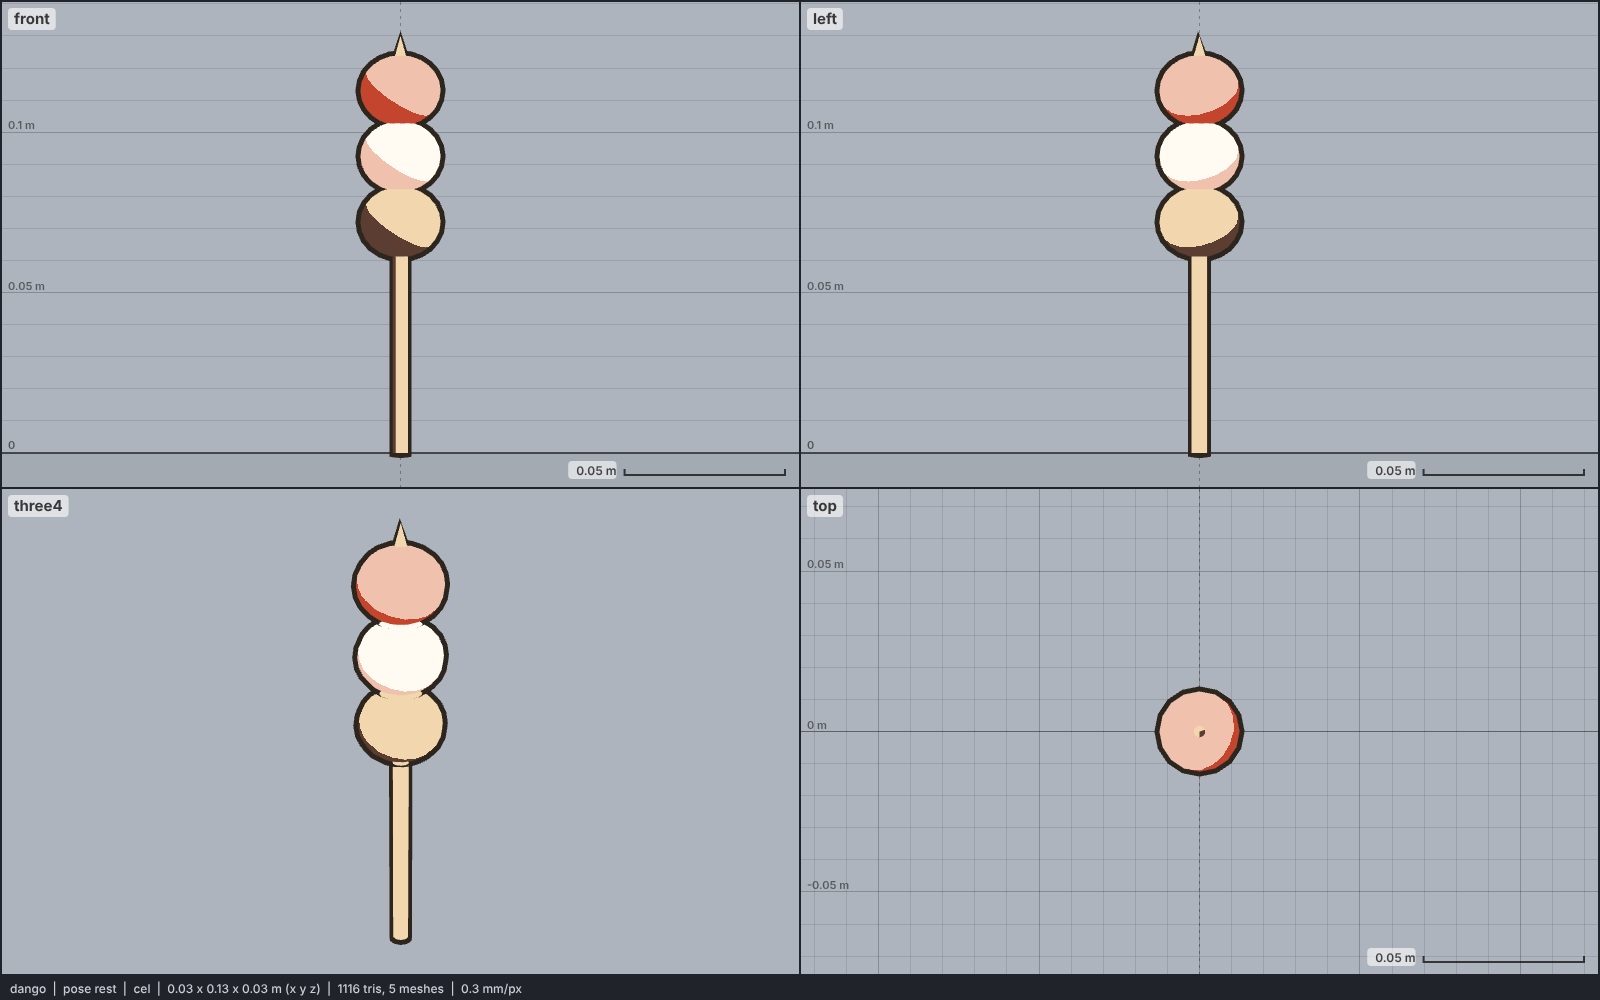
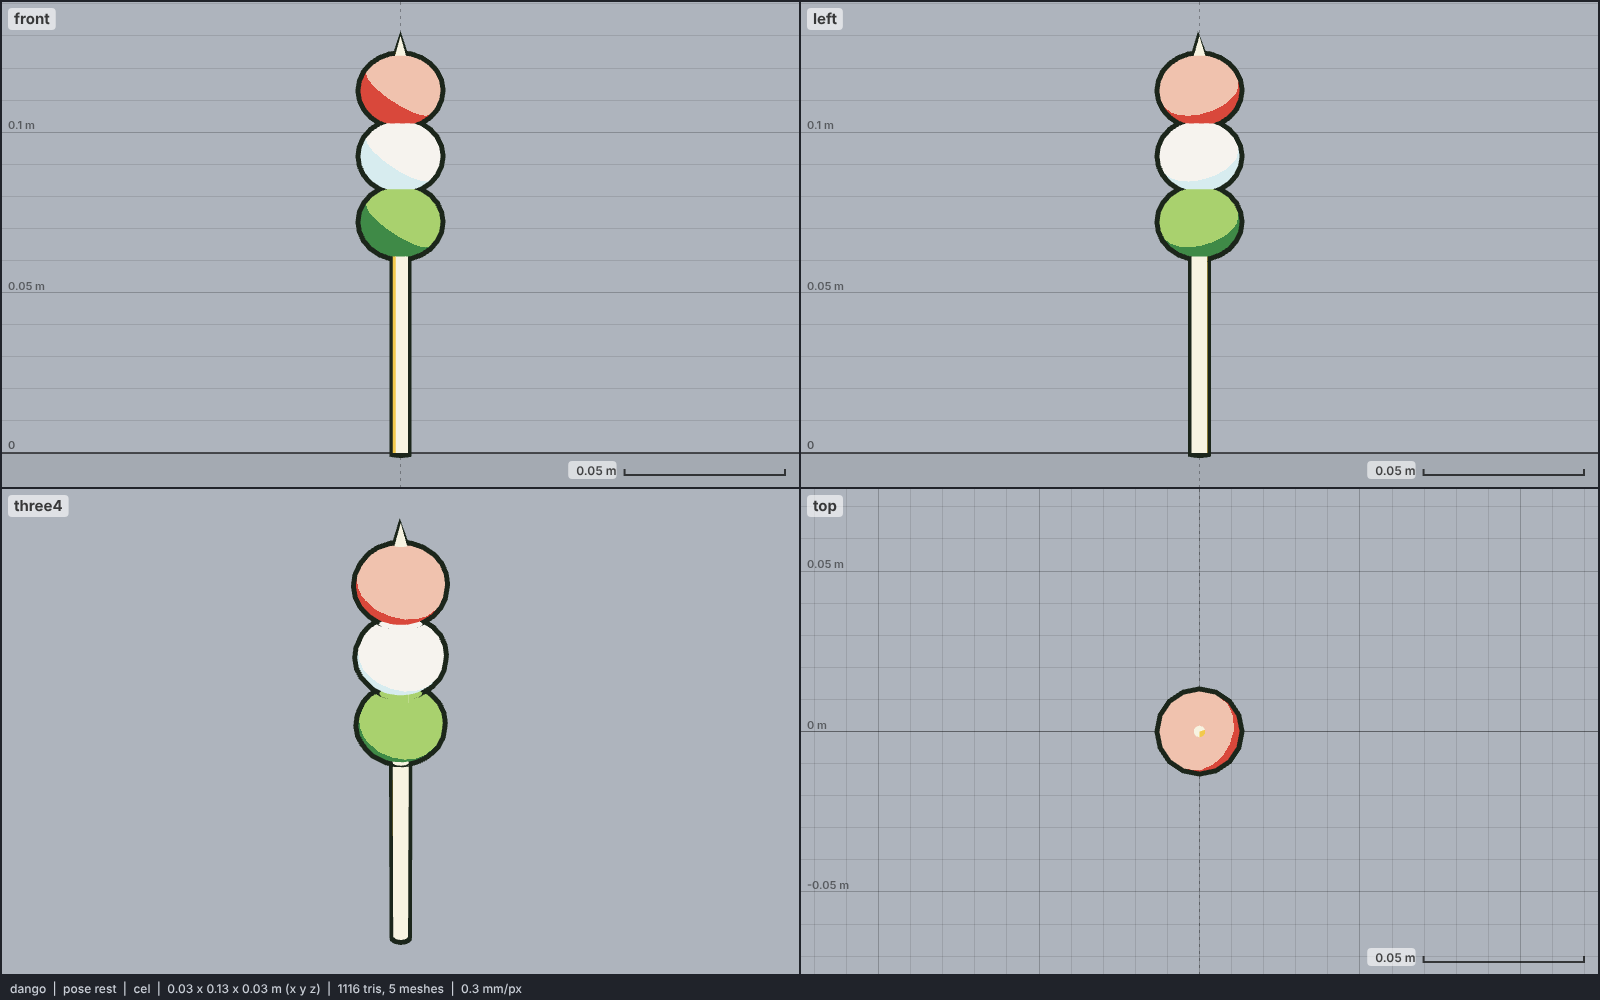
models: dango moves to the meadow script, so hanami is pink / white / green
The green ball is line / iris; white is sclera / sky; pink stays skin / accent.
Meadow has no brown: mitarashi becomes an amber glaze (practical / accent),
anko a red crown over deep green (accent / hair), and the tray green lacquer
(iris / hair) so every flavour separates from it.

Claude-Session: https://claude.ai/code/session_01RarBCdt4E1fNHHaUKaW5GL

Changed region(s): [[0.2188, 0.155, 0.2812, 0.434], [0.7188, 0.155, 0.7812, 0.434], [0.2188, 0.682, 0.2812, 0.93]]

diff --git a/models/dango.js b/models/dango.js
@@ -9,37 +9,38 @@
 //           (an open cap inked as a ragged band). Tilted up toward the viewer; a flat practical gloss decal on the lit
 //           crown.
 //   ANKO    a lumpy sphere (sin-displaced radius) replaces each ball: red-bean paste coats the dumpling.
-//   TRAY    { plate: true }: a red lacquer geta tray (a slab on two cross feet); the skewer lies across it along x, the balls
+//   TRAY    { plate: true }: a green lacquer geta tray (a slab on two cross feet); the skewer lies across it along x, the balls
 //           resting on the tray top. Without it the skewer stands upright on its cut end, as dango are held in anime.
 // Proportions (real size, base unit the ball diameter B = 25 mm): skewer 130 mm (5.2 B), 5 mm thick (thickened from
 // ~3.5 mm so it survives the hull); ball 25 mm wide, 22 mm tall along the skewer, pitch 20.5 mm; tip pokes 6 mm
 // above the top ball; handle 61 mm below the bottom ball. Tray 175 x 80 mm, 8 mm slab on 8.5 mm feet.
 // Options: build(THREE, kit, colors, { height, flavor, plate }). height = skewer length (default 0.13; scales all,
 // ink is in pixels so it scales cleanly), flavor "hanami" (default) | "mitarashi" | "anko", plate false | true.
-// Colours (noon; no script has a green, see below), base / shade by material:
-//   skewer  sky #f2d7ae / iris #5c3d32 at -0.15 (tan bamboo, a thin brown far side).
-//   hanami  balls at -0.1 (a thin shade crescent): pink skin #f0c2ae / accent #c4452d; white practical #fffaf2 /
-//           skin #f0c2ae; "green" sky #f2d7ae / iris #5c3d32. No SCRIPTS entry has a green, so on noon the set reads
-//           pink, white, toasted tan; a film whose sheet has a green maps colors.green / colors.greenShade to it.
-//   mitarashi  rice moon #fff6e4 / sky #f2d7ae; glaze accent #c4452d / iris #5c3d32 at 0.6 (a brown coat whose lit
-//           crown is red-caramel); gloss practical #fffaf2.
-//   anko    paste accent #c4452d / iris #5c3d32 at 0.84 (dark bean brown, a red sheen on top).
-//   tray    accent #c4452d / iris #5c3d32 at 0.1 (red lacquer, like the torii's vermilion).
-//   No shade is darker than ink #2c261f (hair #241c16 is, so it is not used).
+// Colours (meadow: it has the green hanami needs, but no brown), base / shade by material:
+//   skewer  moon #f7f3e1 / practical #f2c94c at -0.15 (pale bamboo, a thin yellow far side).
+//   hanami  balls at -0.1 (a thin shade crescent): pink skin #f0c2ae / accent #d9483b (skin is meadow's only pink);
+//           white sclera #f6f3ee / sky #d7ecef (a cool shadow); green line #a9d16e / iris #3f8a47.
+//   mitarashi  rice moon #f7f3e1 / skin #f0c2ae; glaze practical #f2c94c / accent #d9483b at 0.15 (an amber coat
+//           with a red-amber lower rim: meadow has no brown, so the soy glaze reads as golden caramel); gloss
+//           sclera #f6f3ee.
+//   anko    paste accent #d9483b / hair #2c5131 at 0.4 (a red crown over the darkest non-ink tone; meadow has no
+//           maroon, so this is red-and-dark rather than true bean brown).
+//   tray    iris #3f8a47 / hair #2c5131 at 0.1 (green lacquer: a red tray swallowed the anko's red crown).
+//   Every shade is lighter than ink #1c261b.
 
 export const meta = {
   name: "dango",
   height: 0.13,
-  script: "noon",
+  script: "meadow",
   colors: {
-    stick: "#f2d7ae", stickShade: "#5c3d32",
-    pink: "#f0c2ae", pinkShade: "#c4452d",
-    white: "#fffaf2", whiteShade: "#f0c2ae",
-    green: "#f2d7ae", greenShade: "#5c3d32",
-    rice: "#fff6e4", riceShade: "#f2d7ae",
-    glaze: "#c4452d", glazeShade: "#5c3d32", gloss: "#fffaf2",
-    anko: "#c4452d", ankoShade: "#5c3d32",
-    tray: "#c4452d", trayShade: "#5c3d32",
+    stick: "#f7f3e1", stickShade: "#f2c94c",
+    pink: "#f0c2ae", pinkShade: "#d9483b",
+    white: "#f6f3ee", whiteShade: "#d7ecef",
+    green: "#a9d16e", greenShade: "#3f8a47",
+    rice: "#f7f3e1", riceShade: "#f0c2ae",
+    glaze: "#f2c94c", glazeShade: "#d9483b", gloss: "#f6f3ee",
+    anko: "#d9483b", ankoShade: "#2c5131",
+    tray: "#3f8a47", trayShade: "#2c5131",
   },
   poses: ["rest"],
 };
@@ -157,7 +158,7 @@ export function build(THREE, kit, colors = meta.colors, opts = {}) {
       cg.applyQuaternion(new THREE.Quaternion().setFromUnitVectors(new THREE.Vector3(0, 1, 0), plate ? localDir(0, 1, 0.2) : localDir(0, 1, 0.45)));
       cg.scale(1, SQ, 1);
       cg.computeVertexNormals();
-      const glaze = kit.toon(cg, c.glaze, c.glazeShade, { threshold: 0.6 });
+      const glaze = kit.toon(cg, c.glaze, c.glazeShade, { threshold: 0.15 });
       glaze.name = "glaze";
       g.add(glaze);
       // gloss: a flat practical decal on the lit crown (light is +X, +Y, a little +Z), facing the camera quadrant
@@ -168,7 +169,7 @@ export function build(THREE, kit, colors = meta.colors, opts = {}) {
       gl.name = "gloss";
       g.add(gl);
     } else {
-      g.add(kit.toon(lumpy(R * 1.04), c.anko, c.ankoShade, { threshold: 0.84 }));
+      g.add(kit.toon(lumpy(R * 1.04), c.anko, c.ankoShade, { threshold: 0.4 }));
     }
   });
 
